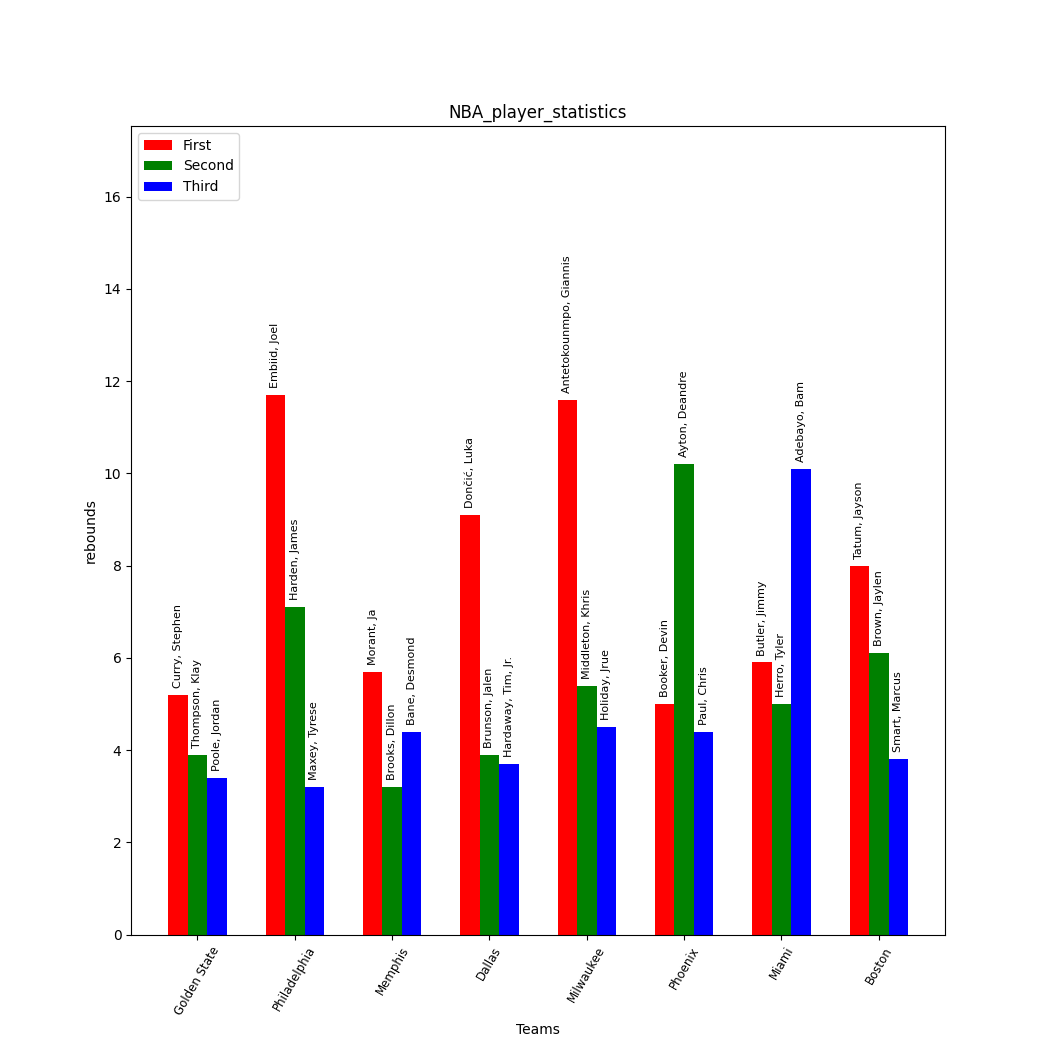
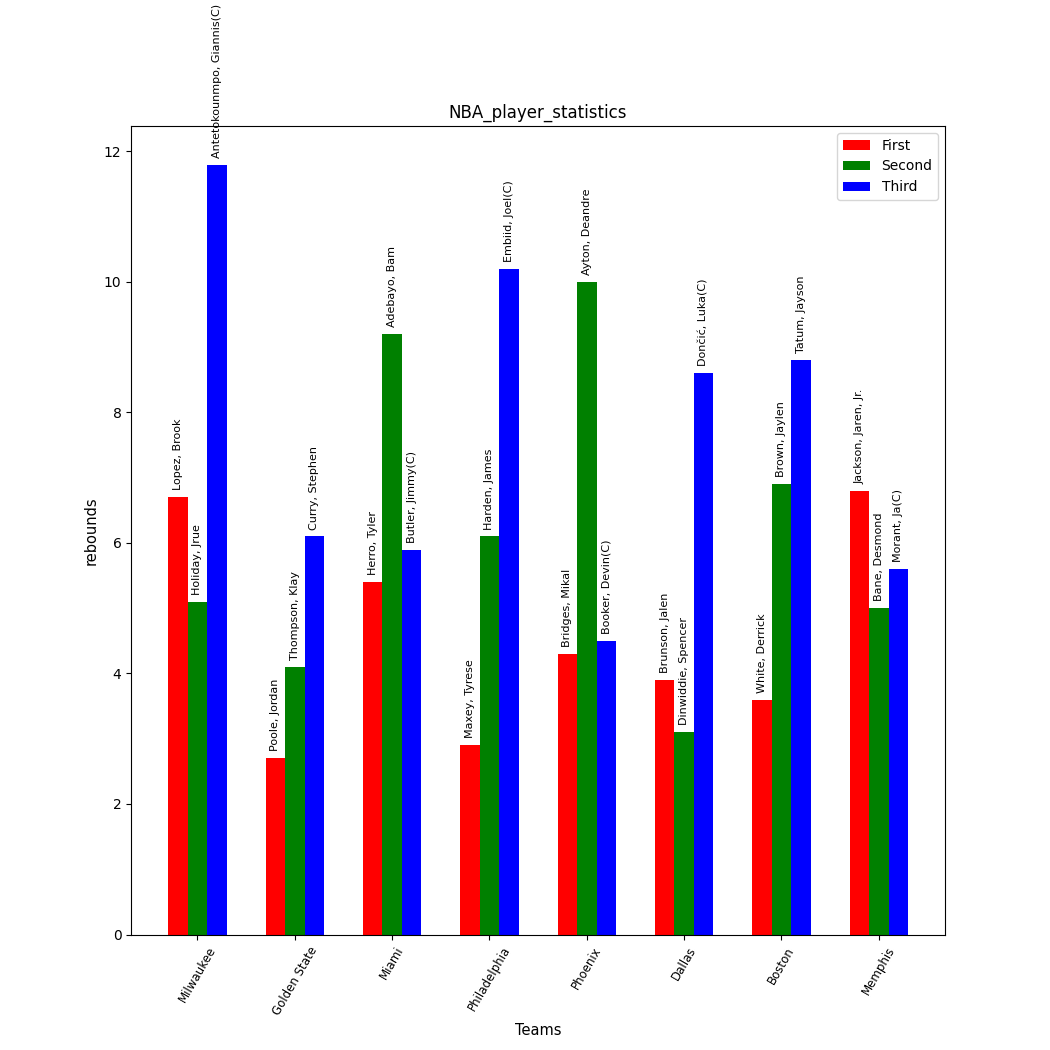
update to the source code, bugs fixed, running smoothly

diff --git a/fetch_player_statistics.py b/fetch_player_statistics.py
@@ -53,21 +53,25 @@ def find_best_players(url: str) -> None:
     # get player statistics for each player,
     # using get_player_stats
     for team, players in all_players.items():
+        # Check if players is not None before iterating over it
+        if players is not None:
+            for index, player in enumerate(players):
+                stats = get_player_stats(player['url'], team)
+                if stats is not None and 'points' in stats and 'assists' in stats and 'rebounds' in stats:
+                    # Check if stats is not None and contains all required keys
+                    points = stats['points']
+                    assists = stats['assists']
+                    rebounds = stats['rebounds']
+                    player = {'name': player['name'], 'url': player['url'], 'points': points, 'assists': assists, 'rebounds': rebounds}
+                else: 
+                    player = {'name': player['name'], 'url': player['url'], 'points': 0, 'assists': 0, 'rebounds': 0}
+                players[index] = player
+        else:
+            # Handle the case when players is None for a specific team
+            # For example, you could log a message or skip processing for that team
+            ...
 
-        for index, player in enumerate(players):  
-            stats = get_player_stats(player['url'], team)
-                #stats = get_player_stats(player['url'], team)
-            # if the player switched team past year, 
-            #we ignore them 
-            if len(stats) != 0:
-                points = stats['points']
-                assists = stats['assists']
-                rebounds = stats['rebounds']
-                 #{'name': player['name'], 'url': player['url'], 'points': points, 'assists': assists, 'rebounds': rebounds}
-                player = {'name': player['name'], 'url': player['url'], 'points': points, 'assists': assists, 'rebounds': rebounds}
-            else: 
-                player = {'name': player['name'], 'url': player['url'], 'points': 0, 'assists': 0, 'rebounds': 0}
-            players[index] = player
+
 
     # at this point, we should have a dict of the form:
     # {
@@ -87,11 +91,14 @@ def find_best_players(url: str) -> None:
     best = {}
     top_stat = ...
     for team, players in all_players.items():
-        #print(team, players)
-        # Sort and extract top 3 based on points
-        players_sorted = list(sorted(players, key=lambda player: player['points']))
-        top_3 = [players_sorted[len(players_sorted)-1], players_sorted[len(players_sorted)-2], players_sorted[len(players_sorted)-3]]
-        best[team] = top_3
+        # Check if players is not None before sorting
+        if players is not None:
+            players_sorted = sorted(players, key=lambda player: player.get('points', 0))
+            top_3 = players_sorted[-3:]  # Get the last 3 players (top 3)
+            best[team] = top_3
+        else:
+            print(f"No players found for {team}.")  # Or any other appropriate action
+
 
     stats_to_plot = ['points', 'assists', 'rebounds']
     
@@ -160,7 +167,7 @@ def plot_best(best: Dict[str, List[Dict]], stat: str = "points") -> None:
     plt.plot(35, highest_y_label+int(highest_y_label/2)) # making the plot bigger to make it more clear, think of it like padding
     plt.title(stats_dir)
     plt.savefig(stats_dir+"/"+stat)
-    #plt.show()    #no need to show, when its already saved to a directory    
+    plt.show()    # u can cmt this out if u dont want plot.
 
 
 def get_teams(url: str) -> list:
@@ -267,7 +274,8 @@ def get_players(team_url: str) -> list:
         name = values[2]
         # and add to players a dict with
         # {'name':, 'url':}
-        players_dict = {'name': name, 'url': player_url[0]}
+
+        players_dict = {'name': name, 'url': player_url[0] if player_url else 'https://en.wikipedia.org/wiki/2021%E2%80%9322_Milwaukee_Bucks_season'}
         players.append(players_dict)
     # return list of players
     return players
@@ -304,7 +312,12 @@ def get_player_stats(player_url: str, team: str) -> dict:
         cols = row.find_all("td")
         values = [td.get_text(strip=True) for td in cols] # setting up values to the values of the row 
         # Check correct team (some players change team within season)
-        player_team = values[1]
+        if len(values) > 1:
+            player_team = values[1]
+        else:
+            # Handle the case when values does not contain enough elements
+            player_team = None  # Or any other appropriate action
+
         if str(player_team) != team:
             continue
         # load stats from columns

diff --git a/README.md b/README.md
@@ -21,11 +21,52 @@ The HTML Reader for Multi-Sport Analytics is a comprehensive data analysis progr
 
 
 ## Installation
+
+### Installing Requirements
+
+To run this project, you'll need to install the required Python packages listed in the `requirements.txt` file.
+
+#### Locally
+
+If you're not using a virtual environment, you can install the project dependencies directly using pip:
+
+```bash
+pip install -r requirements.txt
+```
+
+This command will install all the necessary packages globally on your system.
+
+#### Using a Virtual Environment
+
+It's recommended to use a virtual environment to manage project dependencies and isolate them from other projects. 
+If you haven't already, you can create a virtual environment using venv:  
+
+    python -m venv myenv   
+
+* On macOS/Linux:
+```bash
+source myenv/bin/activate
+```
+
+* On Windows:  
+```bash
+myenv\Scripts\activate
+```
+
+Once the virtual environment is activated, you can install the project dependencies using pip:  
+```bash
+pip install -r requirements.txt
+```
+
+This will install the required packages only within the virtual environment, keeping your system's Python installation clean.   
+
+### Cloning 
+
 To install the HTML Reader for Multi-Sport Analytics, simply clone the Git repository containing the source code:    
 
     git clone https://github.com/ahmetugsuz/HTML-Reader    
 
-## Running  
+### Running  
 
 Once installed, navigate to the root directory:  
 
